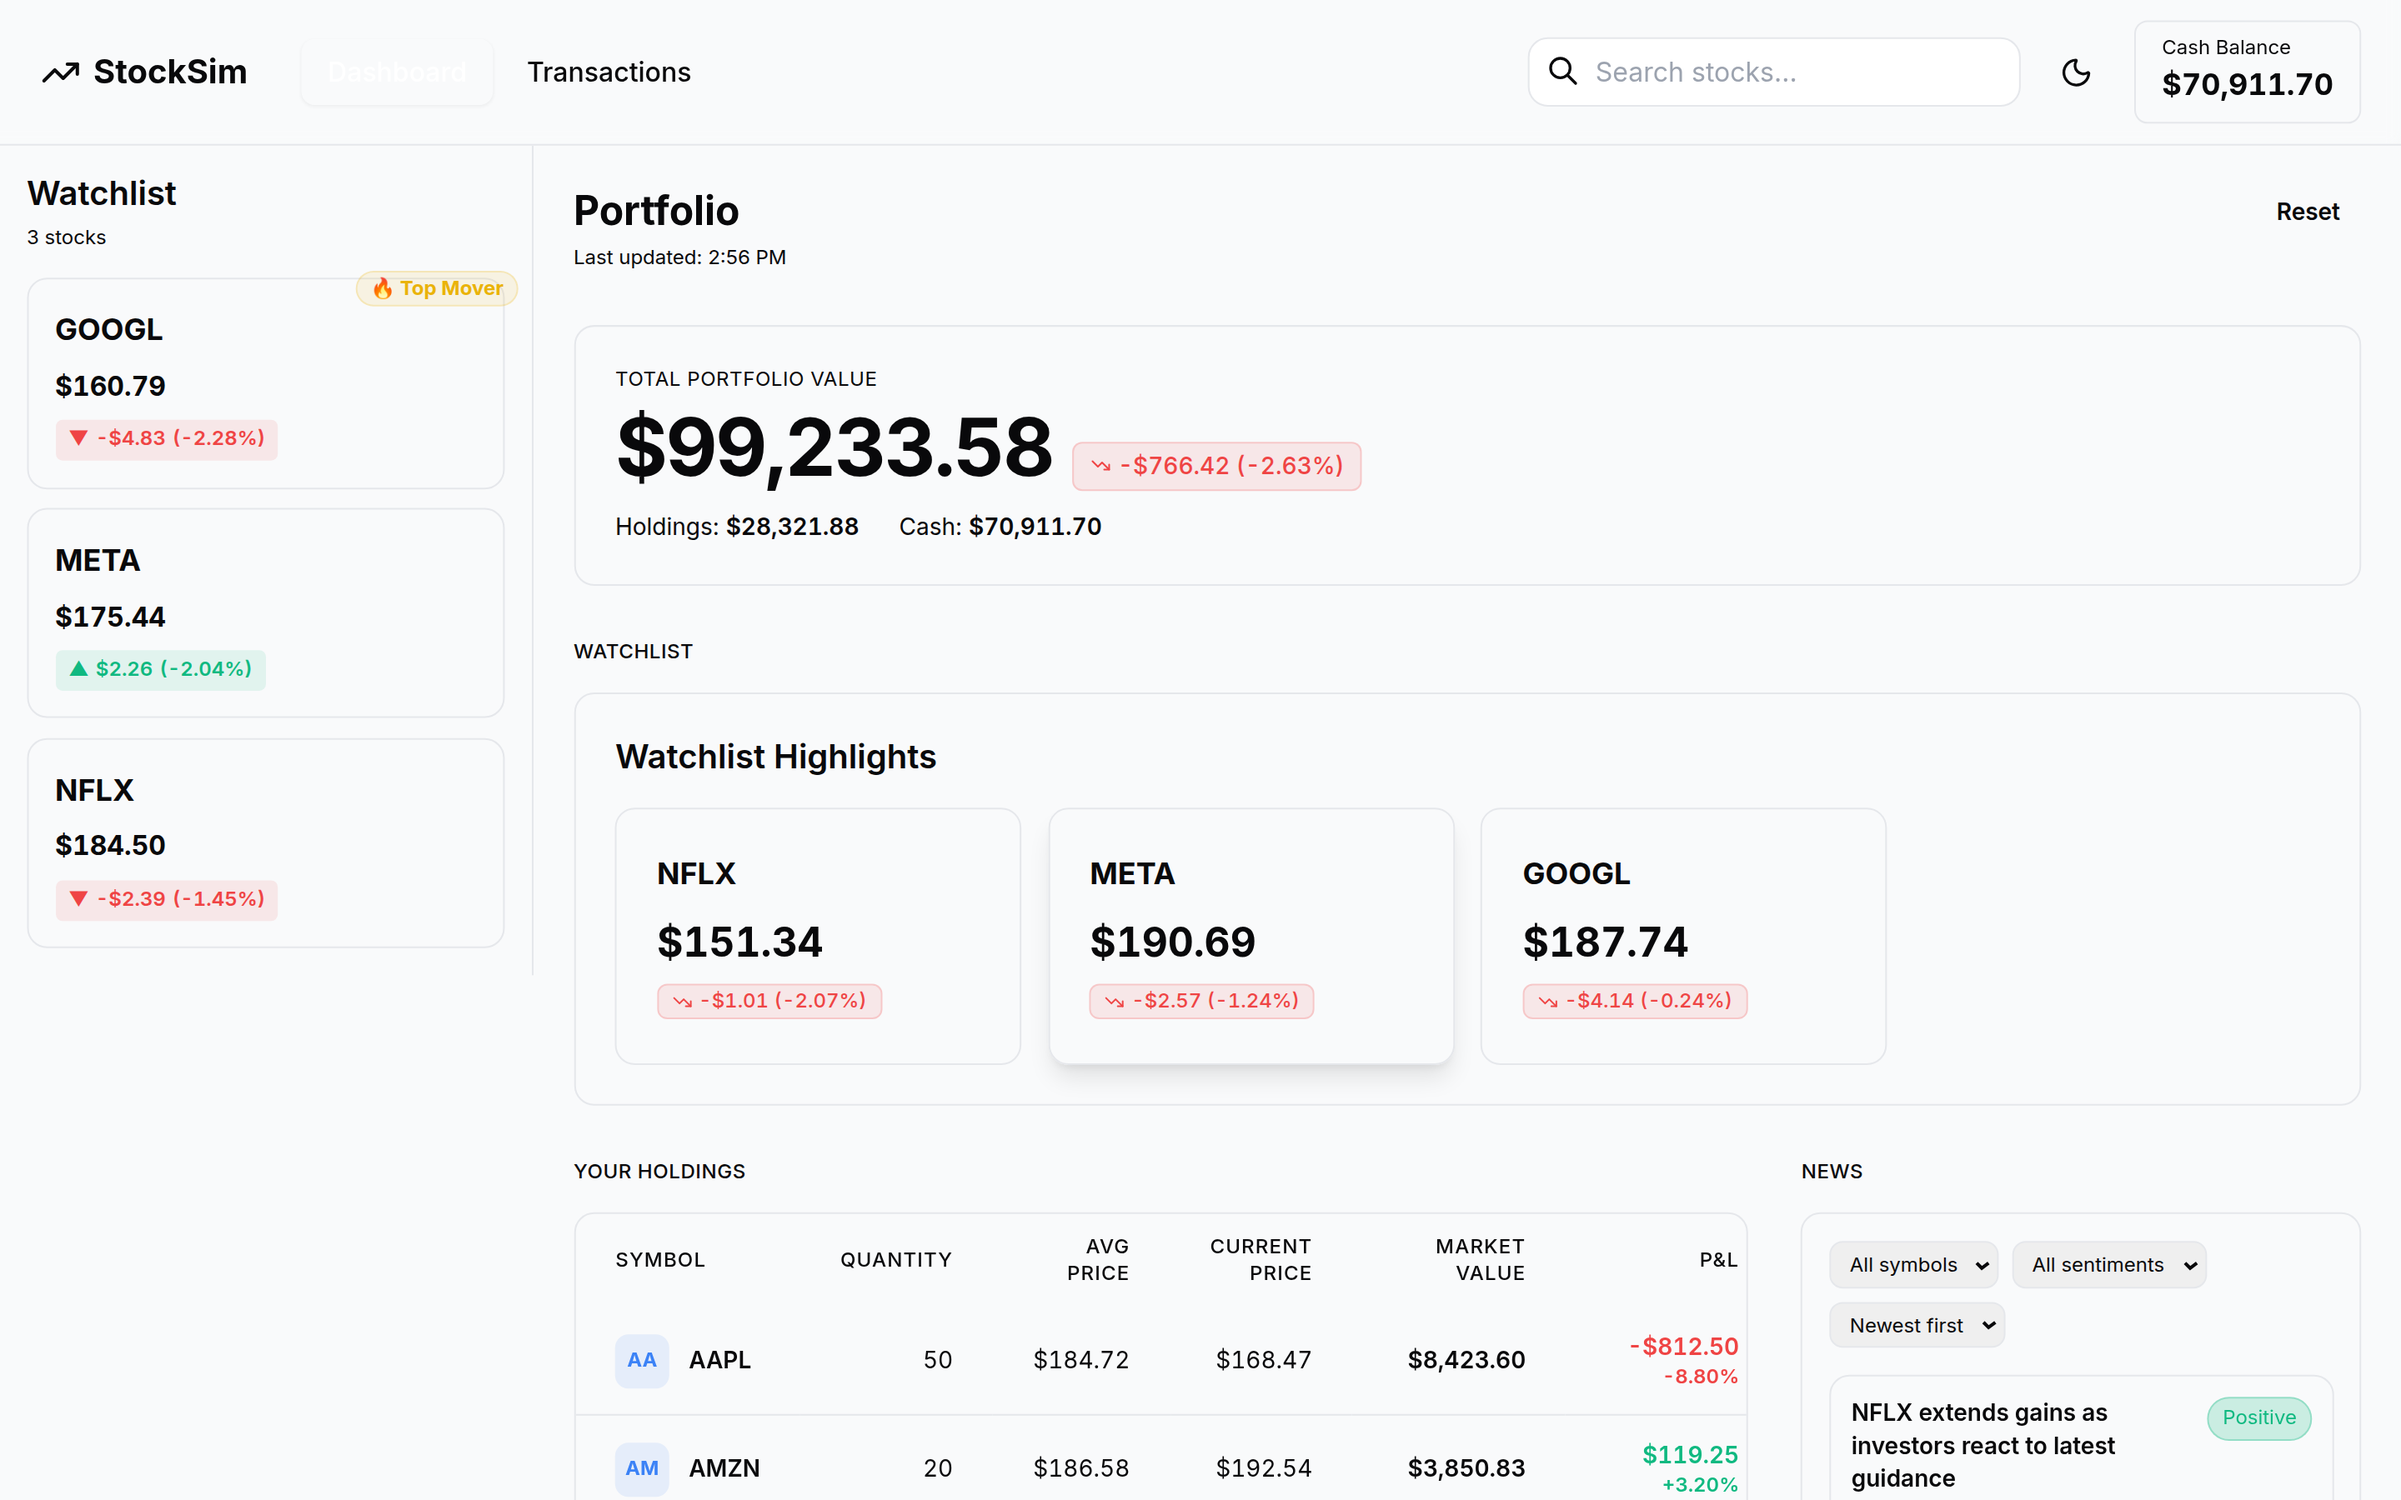
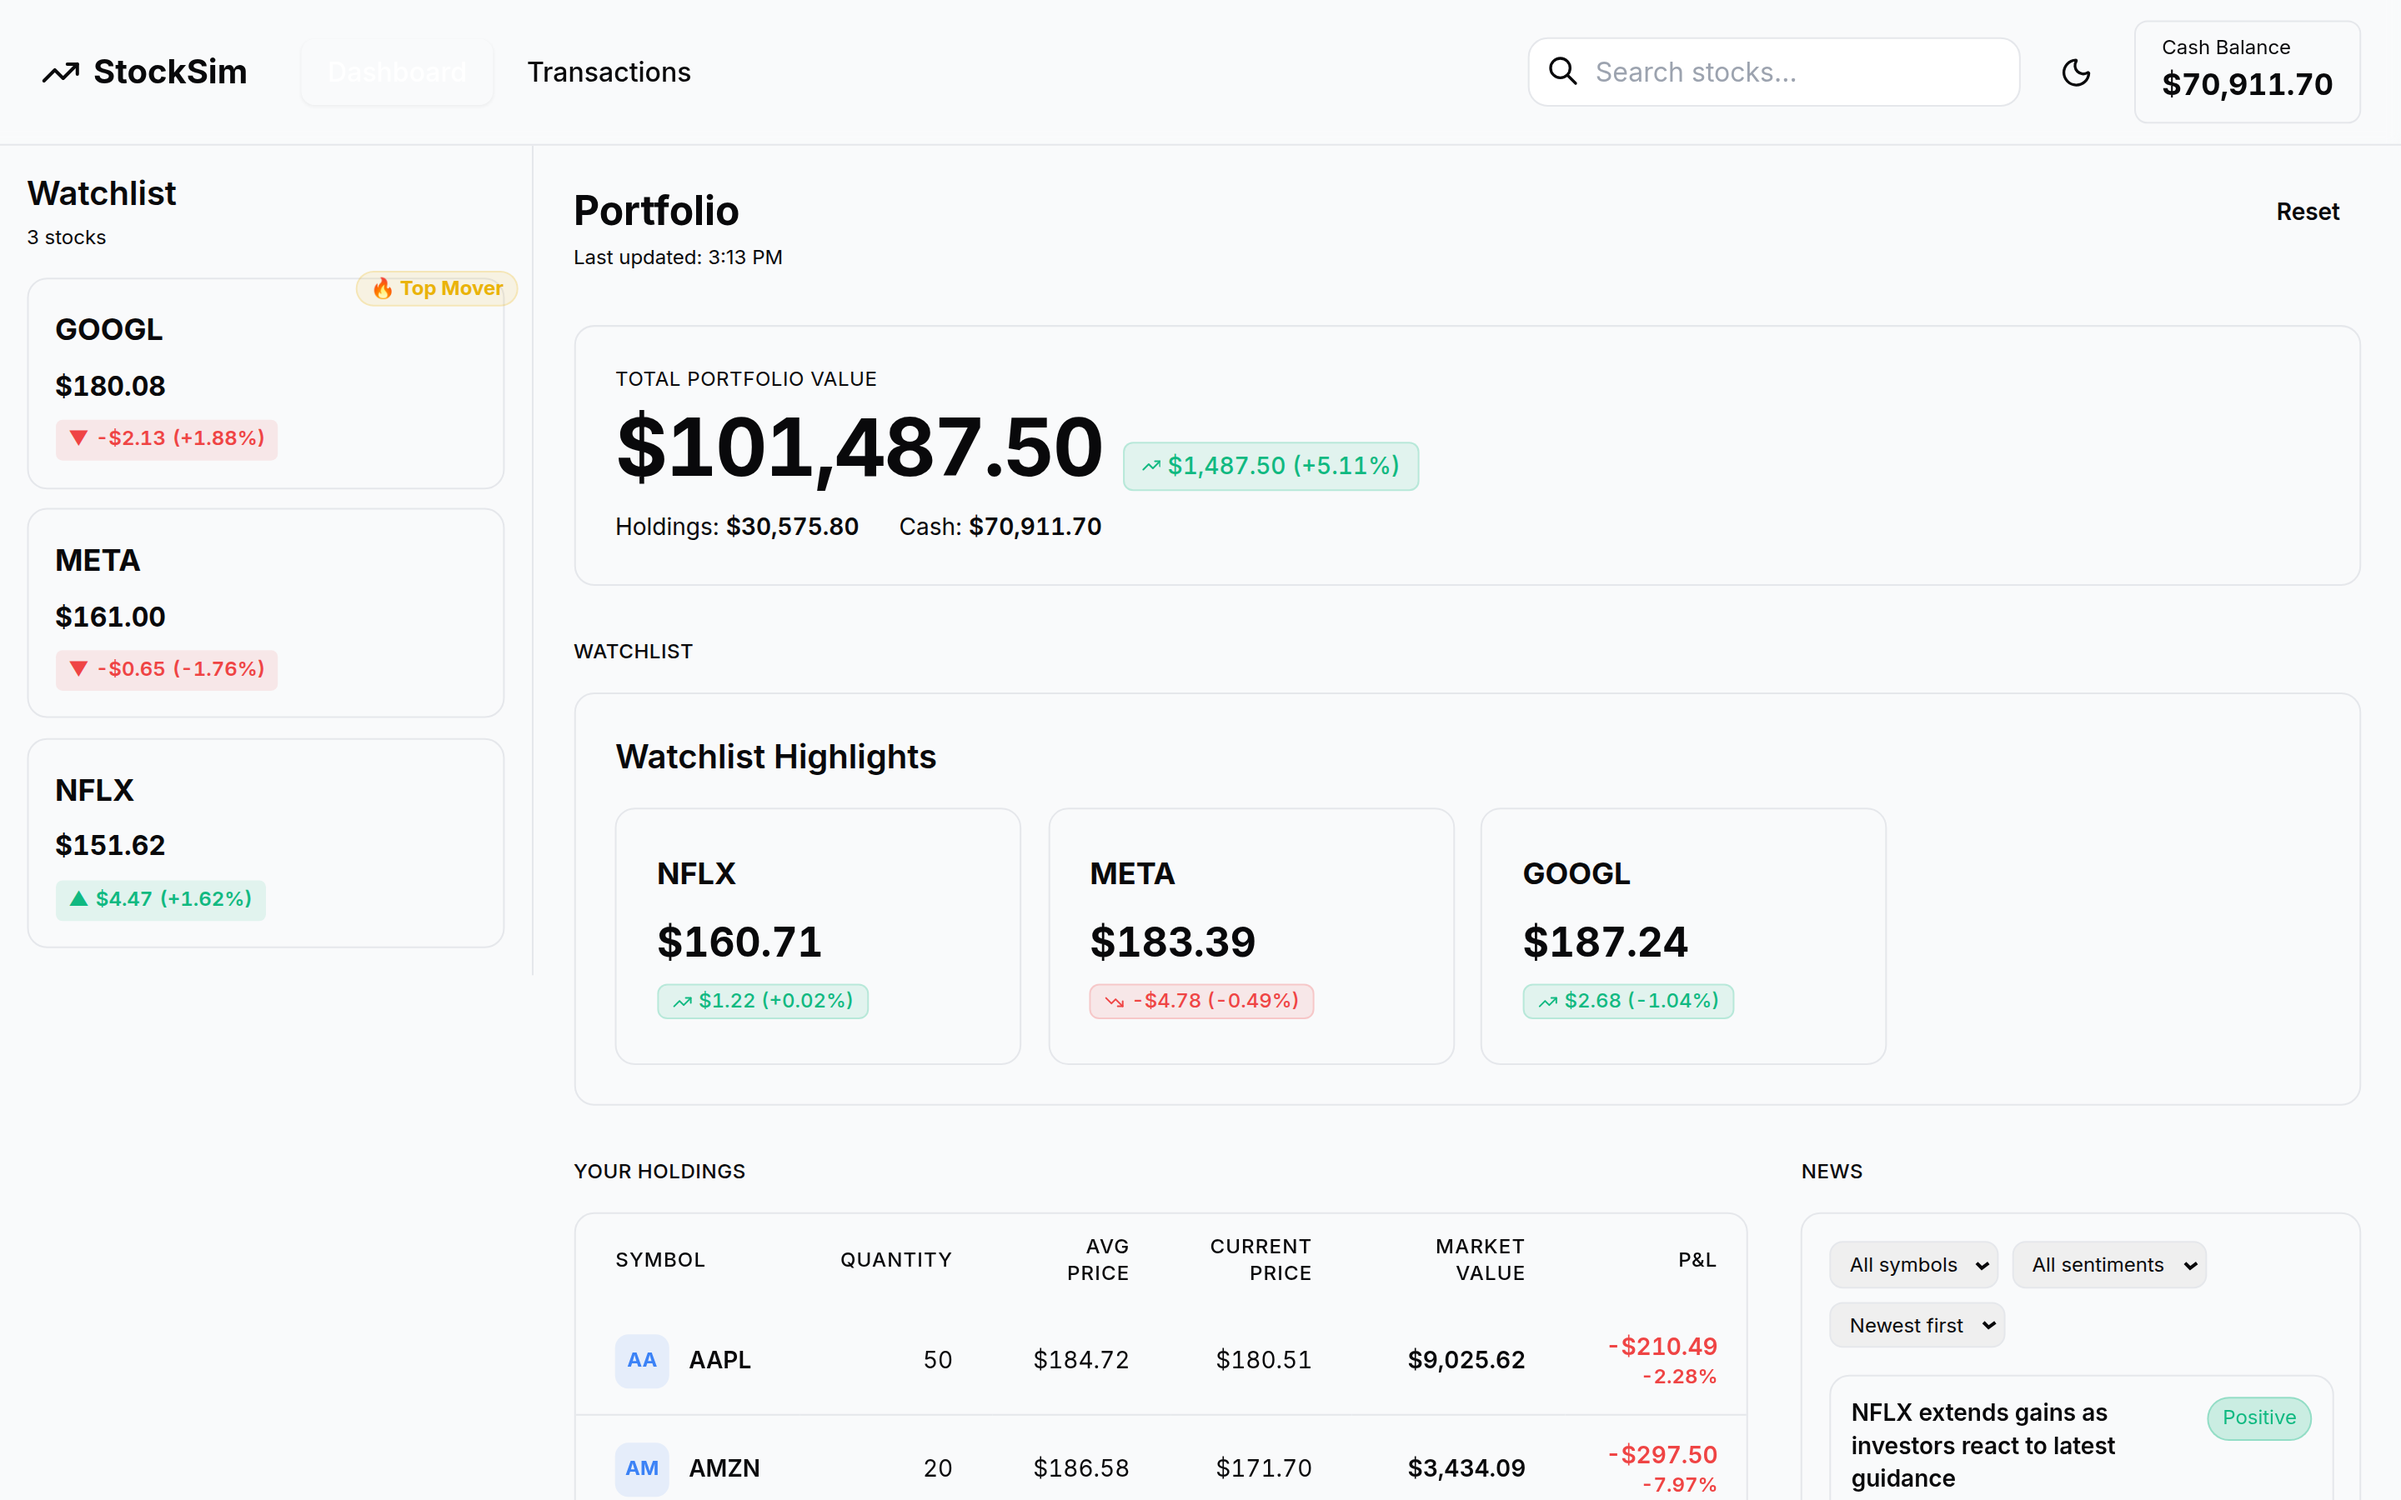
fix: ensure mock quote data has consistent change/changePercent signs
- Calculate changePercent from change and previousClose to guarantee sign consistency
- Derive previousClose from currentPrice - change
- Generate realistic high/low/open values based on price range

diff --git a/frontend/services/stockApi.js b/frontend/services/stockApi.js
@@ -52,16 +52,21 @@ export const stockApi = {
       return quote
     } catch (error) {
       console.error('Error fetching quote:', error)
-      // Return mock data for demo
+      // Return mock data for demo with consistent change/changePercent signs
+      const currentPrice = 150 + Math.random() * 50
+      const change = (Math.random() - 0.5) * 10
+      const previousClose = currentPrice - change
+      const changePercent = previousClose !== 0 ? (change / previousClose) * 100 : 0
+      
       return {
         symbol,
-        currentPrice: 150 + Math.random() * 50,
-        change: (Math.random() - 0.5) * 10,
-        changePercent: (Math.random() - 0.5) * 5,
-        high: 200,
-        low: 100,
-        open: 150,
-        previousClose: 155,
+        currentPrice,
+        change,
+        changePercent,
+        high: Math.max(currentPrice, previousClose) + Math.random() * 5,
+        low: Math.min(currentPrice, previousClose) - Math.random() * 5,
+        open: previousClose + (Math.random() - 0.5) * 2,
+        previousClose,
         timestamp: Date.now()
       }
     }
